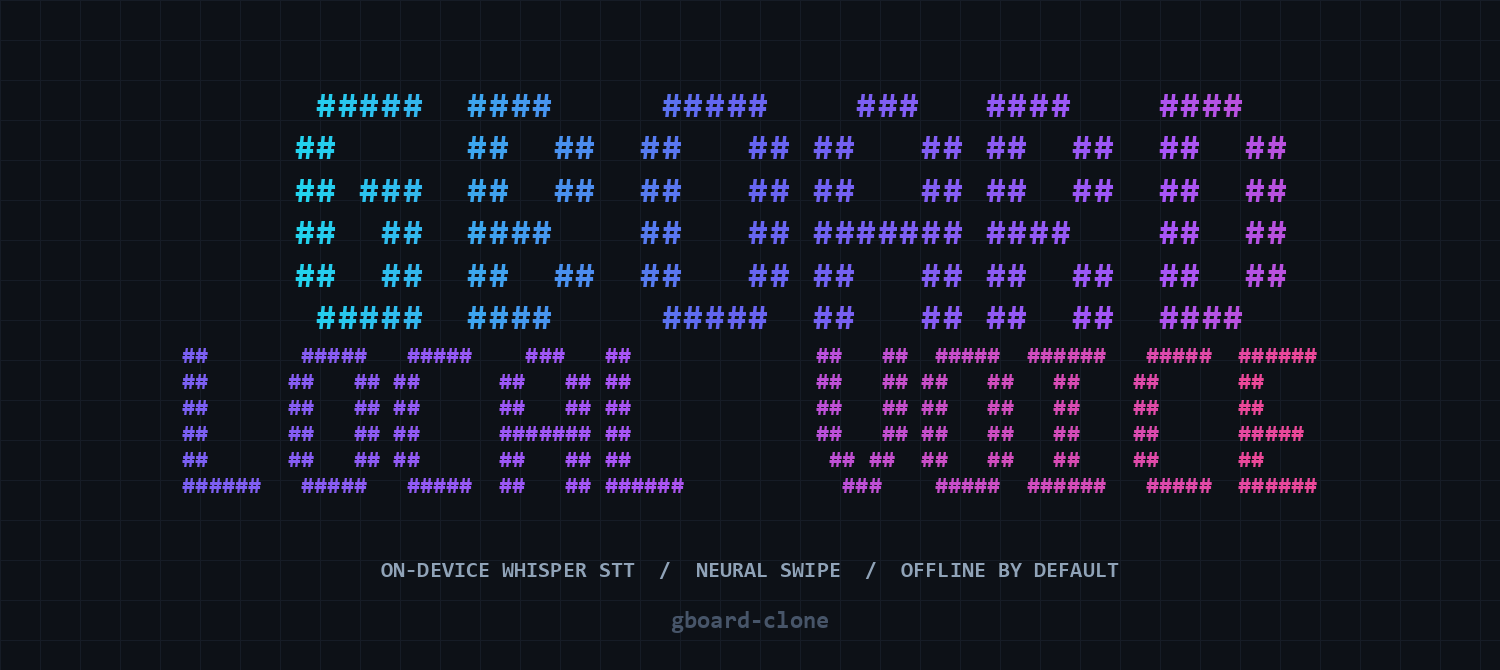
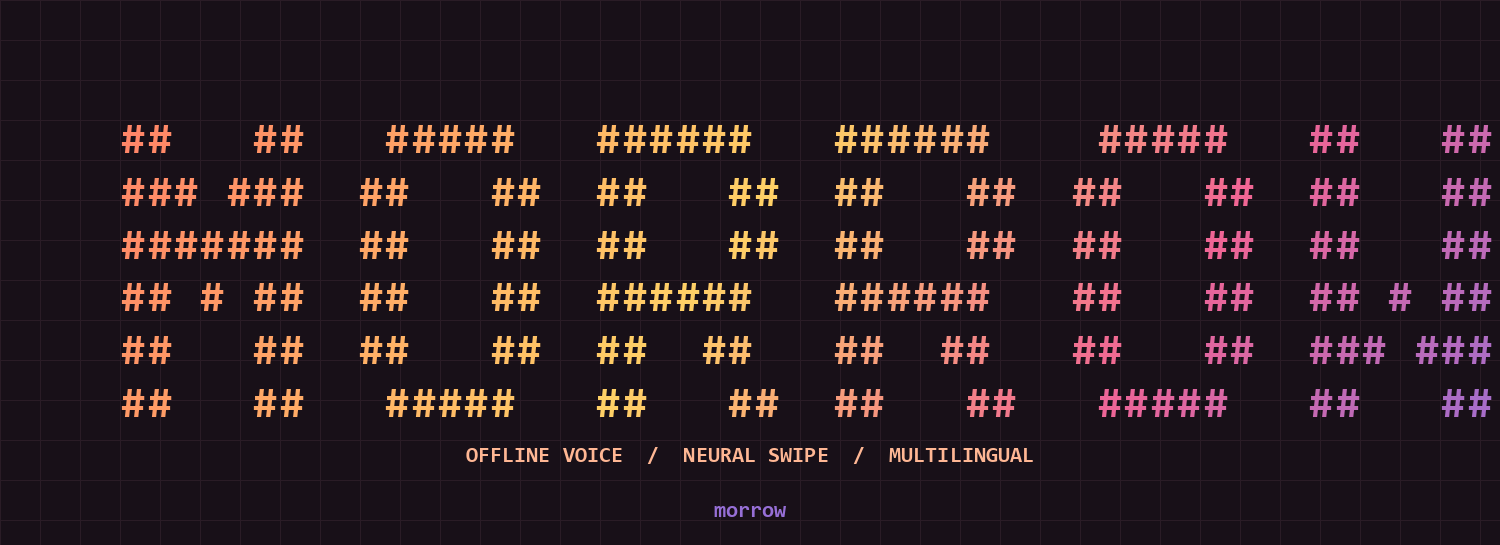
rename: Morrow with sunrise palette
Rename the project to Morrow, regenerate the ASCII banner in sunrise colours
(coral, orange, gold, pink, violet) and update the README and Gradle project name.

diff --git a/README.md b/README.md
@@ -1,5 +1,5 @@
 <p align="center">
-  <img src="docs/assets/banner.png" alt="gboard-clone" width="900">
+  <img src="docs/assets/banner.png" alt="Morrow" width="900">
 </p>
 
 <p align="center">
@@ -87,7 +87,7 @@ and independently reimplemented here.
 ## Monorepo layout
 
 ```
-gboard-clone/
+morrow/
 ├── packages/
 │   ├── app/                          # setup/launcher app (dev.gti.gboard)
 │   │   ├── build.gradle              # Android module (AGP 8.5.2, NDK 28, CMake)
